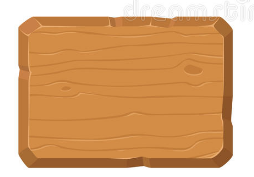
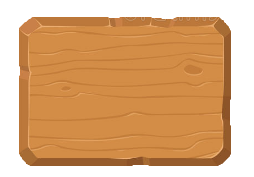
Login/Sign Up/etc

diff --git a/css/home.css b/css/home.css
@@ -1,35 +1,18 @@
 body{
 	background-image: 	url("../img/mato.png"), 
 						url("../img/footer.png"),
-						url("../img/cano.png"),
-						url("../img/cano.png"),
-						url("../img/cano.png"),
-						url("../img/cano.png"),
 						url("../img/floor.png"), 
 						linear-gradient(#00bfff 75%, #fff);
 	background-repeat: 	repeat-x, 
 						no-repeat,
-						no-repeat,
-						no-repeat,
-						no-repeat,
-						no-repeat, 
 						repeat-x;
   	background-position: bottom;
   	background-size: 	500px auto, 
   						300px auto,
-  						100px auto,
-  						100px auto,
-  						100px auto,
-  						100px auto, 
   						28px auto,
   						auto auto;
   	background-position:right 0 bottom 10px,
   						right 0 bottom 28px,
-  						left 10px bottom 28px,
-  						left 110px bottom 28px,
-  						left 210px bottom 28px,
-  						left 310px bottom 28px,
-  						right 0 bottom 0,
   						right 0 bottom 0;
   	position: relative;
 }
@@ -53,14 +36,82 @@ button{
 	padding: 0 5px 0 5px;
 }
 
-h3{
-	background-image: url("../img/placa.png");
-	background-position: center;
-	background-size: 100px 40px;
-	font-size: 12px;
-	font-weight: bold;
-	display: inline-flex;
-	padding: -4px 0 -4px 0;
+.titles
+{
+	position: relative;
+}
+
+.placa1, .placa2, .placa3, .placa4{
+	width: 90px;
+	height: auto;
+}
+
+.placa1{
+	position: absolute;
+	left: 478px;
+	top: 105px;
+	z-index: 2;
+}
+
+.p1{
+	transform: rotate(-30deg);
+	font-family: 'Risque';
+	font-size: 20px;
+	position: absolute;
+	left: 495px;
+	top: 128px;
+	z-index: 3;
+}
+
+.placa2{
+	position: absolute;
+	left: 478px;
+	top: 300px;
+	z-index: 2;
+}
+
+.p2{
+	transform: rotate(-30deg);
+	font-family: 'Risque';
+	font-size: 20px;
+	position: absolute;
+	left: 495px;
+	top: 323px;
+	z-index: 3;
+}
+
+.placa3{
+	position: absolute;
+	left: 795px;
+	top: 105px;
+	z-index: 2;
+}
+
+.p3{
+	transform: rotate(-30deg);
+	font-family: 'Risque';
+	font-size: 20px;
+	position: absolute;
+	left: 800px;
+	top: 128px;
+	z-index: 3;
+}
+
+.placa4{
+	position: absolute;
+	left: 795px;
+	top: 300px;
+	z-index: 2;
+}
+
+.p4{
+	transform: rotate(-30deg);
+	font-family: 'Risque';
+	font-size: 20px;
+	position: absolute;
+	left: 805px;
+	top: 323px;
+	z-index: 3;
 }
 
 .content{
@@ -72,10 +123,66 @@ h3{
 	margin-right: 50px;
 }
 
-.titles
-{
+.stair{
+	width: 250px;
+	height: 500px;
 	position: absolute;
-	bottom: 80px;
-	left: 37px;
+	left: 558px;
+	bottom: 5px;
 }
 
+.cano1{
+	transform: rotate(90deg);
+	width: 100px;
+	height: auto;
+	position: absolute;
+	left: 525px;
+	bottom: 300px;
+}
+
+.cano2{
+	transform: rotate(90deg);
+	width: 100px;
+	height: auto;
+	position: absolute;
+	left: 525px;
+	bottom: 100px;
+}
+
+.cano3{
+	transform: rotate(-90deg);
+	width: 100px;
+	height: auto;
+	position: absolute;
+	right: 525px;
+	bottom: 300px;
+}
+
+.cano4{
+	transform: rotate(-90deg);
+	width: 100px;
+	height: auto;
+	position: absolute;
+	right: 525px;
+	bottom: 100px;
+}
+
+.wall1{
+	transform: rotate(90deg);
+	position: absolute;
+	left: 300px;
+	bottom: 160px;
+	width: 450px;
+	height: auto;
+	z-index: 1;
+}
+
+.wall2{
+	transform: rotate(90deg);
+	position: absolute;
+	right: 300px;
+	bottom: 160px;
+	width: 450px;
+	height: auto;
+	z-index: 1;
+}

diff --git a/home.html b/home.html
@@ -11,6 +11,7 @@
     <link rel="stylesheet" href="https://fonts.googleapis.com/icon?family=Material+Icons">
     <link href='https://fonts.googleapis.com/css?family=Lobster' rel='stylesheet'>
     <link href='https://fonts.googleapis.com/css?family=Lobster Two' rel='stylesheet'>
+    <link href='https://fonts.googleapis.com/css?family=Risque' rel='stylesheet'>
 </head>
 <body>
     
@@ -35,7 +36,14 @@
             
         <div class="titles">
 
-                <h3>Entrar</h3><h3>Cadastrar</h3><h3>Sobre</h3><h3>Autores</h3>
+                <img src="./img/placa.png" class="placa1">
+                <div class="p1">About</div>
+                <img src="./img/placa.png" class="placa2">
+                <div class="p2">Log In</div>
+                <img src="./img/placa.png" class="placa3">
+                <div class="p3">Creators</div>
+                <img src="./img/placa.png" class="placa4">
+                <div class="p4">Sign Up</div>
 
         </div>
 
@@ -47,6 +55,22 @@
 
             </footer>
         </div>
+
+        <img src="./img/stair.png" class="stair">
+
+        <img src="./img/cano.png" class="cano1">
+
+        <img src="./img/cano.png" class="cano2">
+
+        <img src="./img/cano.png" class="cano3">
+
+        <img src="./img/cano.png" class="cano4">
+
+
+        <img src="./img/parede.png" class="wall1">
+
+        <img src="./img/parede.png" class="wall2">
+
     </div>
 
     
